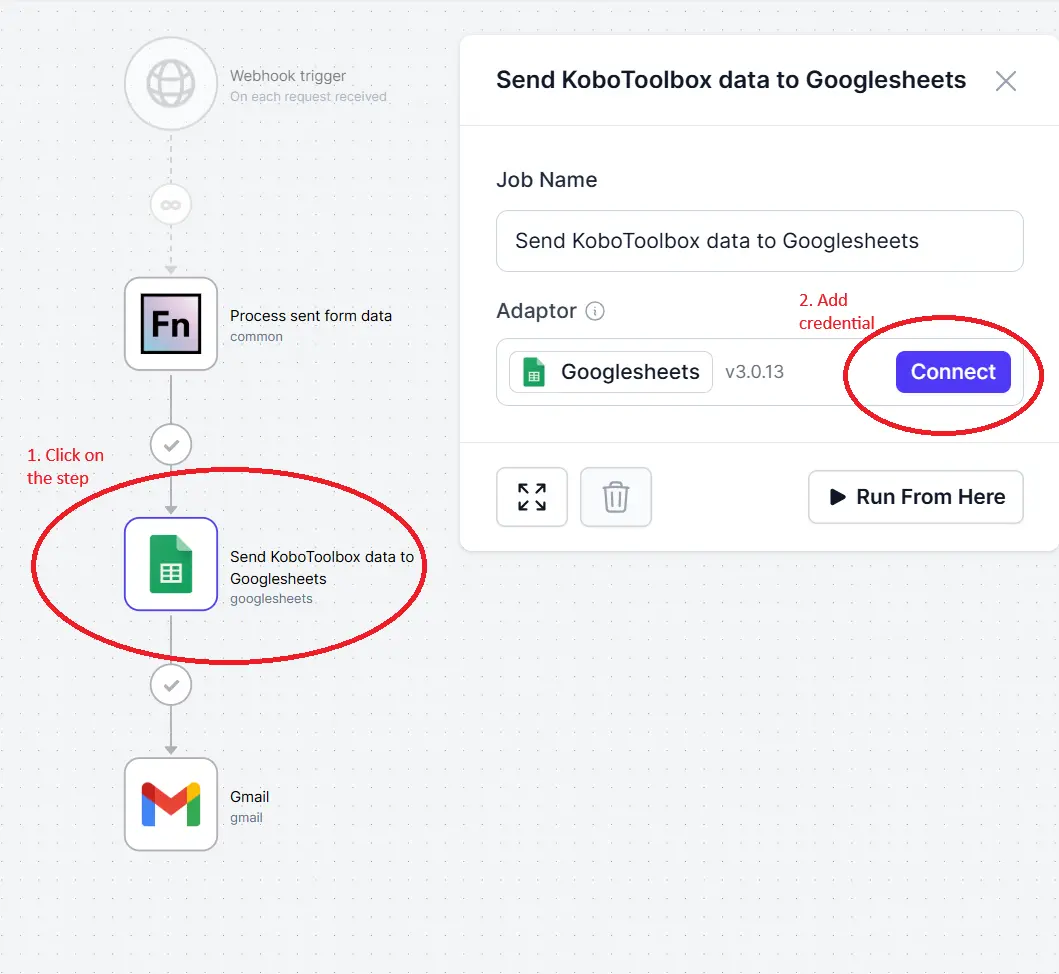
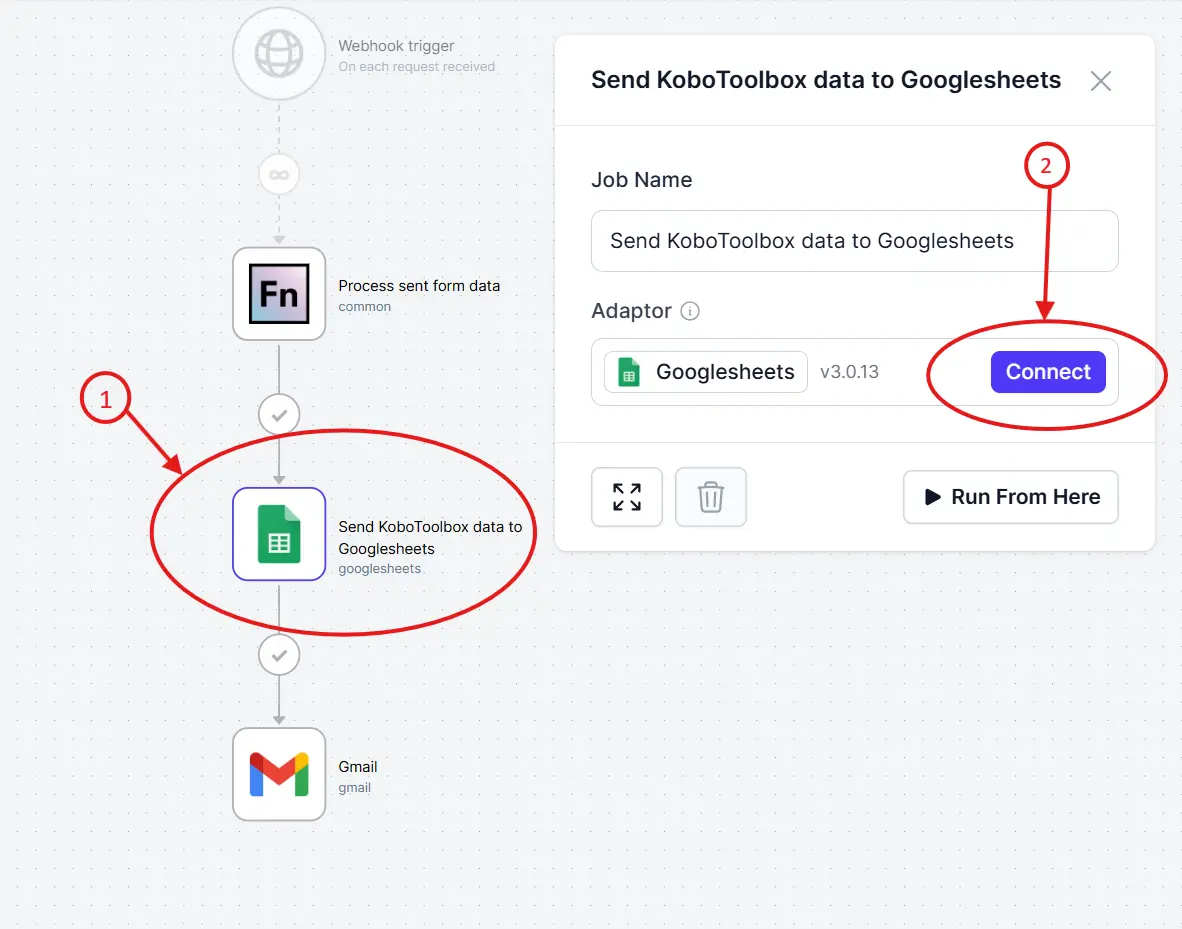
Feedback implementation

diff --git a/docs/build/migrate-workflows.md b/docs/build/migrate-workflows.md
@@ -2,7 +2,7 @@
 title: Migrate Workflows
 ---
 
-All workflows can be represented as YAML code. This allows for the users to export a workflow and import it into another project they have access to.
+All workflows can be represented as YAML code. This allows users to export a workflow and import it into another project they have access to.
 
 :::info What YAML carries
 
@@ -19,8 +19,7 @@ To export a workflow from the source Project:
 2. On the top-right corner is a vertical slider button. Click on that.
 3. A `View your workflow as YAML code` link will appear on the pop-up. Click on it.
 ![export YAML](/img/export-yaml.webp)
-4. Click on the `Copy Code` button to copy the YAML to your clipboard.
-5. If you prefer to store it for later on your computer. Click on the `Download` button.
+4. Click on the `Copy Code` button to copy the YAML to your clipboard, or the `Download` button to save the YAML as a file.
 
 ## Steps to import a workflow
 To import a workflow into the target Project:
@@ -35,7 +34,7 @@ To import a workflow into the target Project:
 
 :::tip Activate workflows after import
 
-Note that the workflow is disabled on import. Click on `Go live` to activate it.
+Remember to check if the workflow is active after you import it.
 
 :::
 
@@ -44,20 +43,11 @@ Note that the workflow is disabled on import. Click on `Go live` to activate it.
 Credentials are not included in the YAML export. This is intentional, credentials are owned by individual users and scoped to projects.
 
 After importing a workflow, each step that referenced a credential on the
-source will need to be reconfigured to restore them:
+source will need to be reconfigured to restore them.
 
-If you own a credential in the source project and you wish to re-use the same in the target project:
+If you own a credential in the source project and wish to re-use the same in the target project, [see this link for instructions](/manage-users/user-credentials.md#share-credentials).
 
-1. Go to the user section on the top-left corner of your screen and click on the drop-down button.
-![credentials](/img/profile-credentials.webp)
-2. Click on credentials and find the credential you are looking to re-use.
-3. Click the `Actions` button on the credential and select `Edit`.
-4. In the pop-up that follows look for a `Projects access` section at the bottom.
-![projects access](/img/projects-access.webp)
-5. Search for the target project in the dropdown and click on it. See that it is added below the dropdown and click on `Save credential`
-![projects access](/img/project-added.webp)
-
-If you need to create a new credential, got to your credentials page, then create your new credential and include your target project in the `Projects access` section.
+If you need to create a new credential, go to your credentials page, then create your new credential and include your target project in the `Projects access` section.
 
 :::tip Attach the credentials to each step
 
@@ -65,15 +55,13 @@ After creating a new credential, or giving an existing one access to your target
 
 :::
 
+To attach your credential:
+1. Click on the target step.
+2. On the modal that appears, click on the `Connect` button and select your credential.
+
 ![attach credential](/img/attach-credential.webp)
 
 ## Common Pitfalls
-
-- **Adaptor version not available on the target.** If the target instance
-  doesn't have the adaptor version referenced in the YAML, the import will
-  fail or the run will not fail. Confirm adaptor availability before
-  importing, or update the adaptor version in the YAML to one supported on
-  the target.
 - **Credential type mismatch.** A step expecting a Salesforce OAuth
   credential will likely fail if linked to a Raw JSON credential. Create the correct
   type on the target.

diff --git a/docs/manage-users/user-credentials.md b/docs/manage-users/user-credentials.md
@@ -29,10 +29,13 @@ You can update the name and login details of a Credential after clicking `Edit`.
 
 You can also allow multiple projects to have access to a Credential you own.
 
-To add or remove project access, click `Edit` on the Credential you want to
-share, and choose the project from the dropdown under `Project Access`.
-
-![Update Project Access](/img/lightning_share_cred_with_project.webp)
+Follow the steps below to give a project access to a credential: 
+1. Visit the credentials page under your profile and find the credential you are looking to share.
+2. Click the `Actions` button on the credential and select `Edit`.
+3. In the pop-up that follows look for a `Projects access` section at the bottom.
+![projects access](/img/projects-access.webp)
+4.  Search for the target project in the dropdown and click on it. See that it is added below the dropdown and click on `Save credential`
+![projects access](/img/project-added.webp)
 
 :::info Shared Credentials remain secret
 
